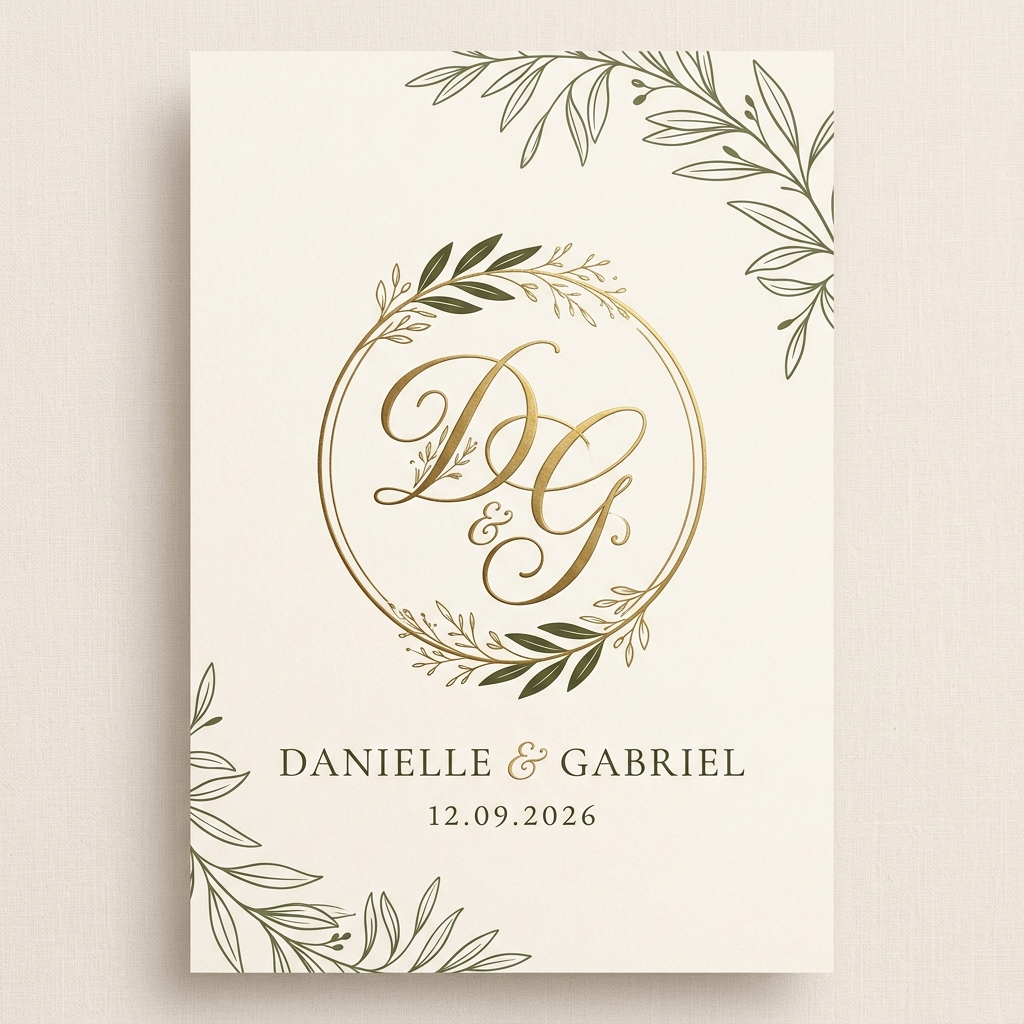
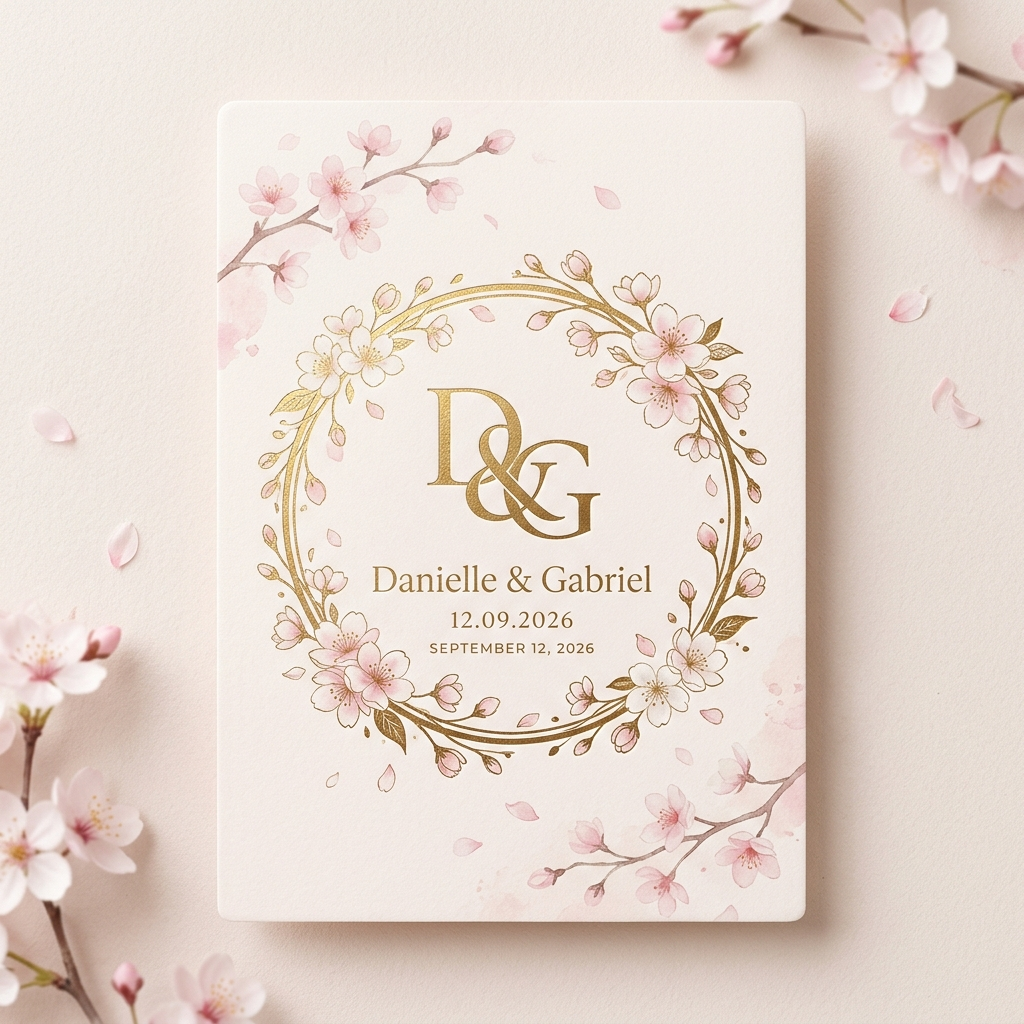
Ajustes no convite: rolagem travada na abertura, envelope pulsante, instrucao estatica e novo botao para lista de presentes

diff --git a/css/style.css b/css/style.css
@@ -1,13 +1,13 @@
 /* Sistema de Design e Variáveis */
 :root {
-    --nude-light: #FBF7F2;
-    --nude-medium: #F5E6D3;
+    --nude-light: #FFF0F2; /* Soft Cherry Blossom Pink/Cream */
+    --nude-medium: #FCD5DB; /* Medium Cherry Blossom Pink */
     --gold-primary: #C5A059;
     --gold-dark: #A67C00;
-    --olive-dark: #556B2F;
+    --olive-dark: #782E3F; /* Elegant Cherry Blossom Burgundy/Wine */
     --white: #FFFFFF;
-    --text-dark: #333333;
-    --text-muted: #777777;
+    --text-dark: #3E272B; /* Dark Cherry Brown */
+    --text-muted: #8A6E73; /* Muted Rose Gray */
     --font-serif: 'Playfair Display', serif;
     --font-sans: 'Montserrat', sans-serif;
     --transition: all 0.4s ease;
@@ -26,6 +26,11 @@ body {
     background-color: var(--white);
     line-height: 1.6;
     overflow-x: hidden;
+}
+
+body.no-scroll {
+    overflow: hidden;
+    height: 100vh;
 }
 
 .serif { font-family: var(--font-serif); }
@@ -173,10 +178,23 @@ section { overflow: hidden; }
     border-radius: 4px;
     cursor: pointer;
     transition: transform 0.3s ease;
+    animation: envelope-pulse 2s infinite ease-in-out;
 }
 
 .envelope:hover {
-    transform: scale(1.02);
+    transform: scale(1.05);
+    animation-play-state: paused;
+}
+
+@keyframes envelope-pulse {
+    0%, 100% {
+        transform: scale(1);
+        box-shadow: 0 15px 35px rgba(0,0,0,0.3);
+    }
+    50% {
+        transform: scale(1.03);
+        box-shadow: 0 20px 45px rgba(0,0,0,0.4);
+    }
 }
 
 .animate-pulse {
@@ -317,6 +335,26 @@ section { overflow: hidden; }
 .opening-content {
     max-width: 500px;
     z-index: 2;
+}
+
+/* Instrução de clique no envelope */
+.click-instruction {
+    color: var(--white);
+    font-size: 1.15rem;
+    font-weight: 700;
+    letter-spacing: 1px;
+    text-transform: uppercase;
+    border: 1.5px solid rgba(255, 255, 255, 0.5);
+    padding: 12px 30px;
+    display: inline-flex;
+    align-items: center;
+    justify-content: center;
+    gap: 10px;
+    border-radius: 30px;
+    background: rgba(255, 255, 255, 0.12);
+    backdrop-filter: blur(5px);
+    margin-top: 25px;
+    box-shadow: 0 4px 15px rgba(0, 0, 0, 0.15);
 }
 
 .quote-text {
@@ -575,6 +613,12 @@ section { overflow: hidden; }
 }
 
 @media screen and (max-width: 576px) {
+    .click-instruction {
+        font-size: 0.95rem;
+        padding: 10px 22px;
+        gap: 8px;
+        margin-top: 20px;
+    }
     .section-title { font-size: 1.8rem; }
     .display-1 { font-size: 2.5rem; }
     .hero-content { padding: 0 15px; }
@@ -608,4 +652,42 @@ section { overflow: hidden; }
 @media screen and (max-height: 500px) and (orientation: landscape) {
     .hero { height: auto; padding: 100px 0; }
     .opening-content { padding: 20px 0; }
+}
+
+/* Animação de Pétalas de Cerejeira Flutuantes */
+.cherry-petals {
+    position: fixed;
+    top: 0;
+    left: 0;
+    width: 100%;
+    height: 100%;
+    pointer-events: none;
+    z-index: 999;
+    overflow: hidden;
+}
+
+.petal {
+    position: absolute;
+    background: linear-gradient(135deg, #FFC0CB 0%, #FFB7C5 100%);
+    border-radius: 150% 0 150% 150%;
+    opacity: 0.85;
+    animation: drift 12s linear infinite;
+    transform-origin: left top;
+}
+
+@keyframes drift {
+    0% {
+        top: -10%;
+        transform: translateX(0) rotate(0deg) scale(1);
+        opacity: 0.85;
+    }
+    50% {
+        transform: translateX(120px) rotate(180deg) scale(0.9);
+        opacity: 0.6;
+    }
+    100% {
+        top: 110%;
+        transform: translateX(-60px) rotate(360deg) scale(0.8);
+        opacity: 0;
+    }
 }

diff --git a/index.html b/index.html
@@ -25,9 +25,9 @@
     <link rel="stylesheet" href="https://cdnjs.cloudflare.com/ajax/libs/font-awesome/6.4.0/css/all.min.css">
     
     <!-- CSS Personalizado -->
-    <link rel="stylesheet" href="css/style.css">
+    <link rel="stylesheet" href="css/style.css?v=2">
 </head>
-<body>
+<body class="no-scroll">
 
     <!-- Pré-carregamento / Boas-vindas -->
     <div id="opening-invitation" class="opening-overlay">
@@ -49,7 +49,7 @@
             <div class="opening-content text-center mt-5">
                 <p class="mb-4 text-white quote-text">"O amor não se alegra com a injustiça, mas se alegra com a verdade. Tudo sofre, tudo crê, tudo espera, tudo suporta."</p>
                 <p class="mb-4 text-white">1 Coríntios 13:6-7</p>
-                <p class="text-white opacity-75 small animate-pulse"><i class="fas fa-envelope-open-text me-2"></i>Clique no envelope para abrir</p>
+                <div class="click-instruction"><i class="fas fa-envelope-open-text me-2"></i>Clique no envelope para abrir</div>
             </div>
         </div>
     </div>
@@ -89,7 +89,10 @@
                     <small>Seg</small>
                 </div>
             </div>
-            <a href="#rsvp" class="btn btn-outline-white px-4 py-2">Confirmar Presença</a>
+            <div class="d-flex flex-column flex-sm-row justify-content-center gap-3">
+                <a href="#rsvp" class="btn btn-outline-white px-4 py-2">Confirmar Presença</a>
+                <a href="#presentes" class="btn btn-outline-white px-4 py-2">Lista de Presentes</a>
+            </div>
         </div>
     </header>
 
@@ -214,7 +217,7 @@
     </section>
 
     <!-- Lista de Presentes -->
-    <section class="section-padding">
+    <section class="section-padding" id="presentes">
         <div class="container text-center animate-on-scroll">
             <h2 class="serif mb-4">Lista de Presentes</h2>
             <p class="mb-5">Sua presença é o nosso maior presente, mas se desejar nos presentear, confira nossa lista virtual.</p>
@@ -280,6 +283,6 @@
     <!-- Bootstrap 5 JS -->
     <script src="https://cdn.jsdelivr.net/npm/bootstrap@5.3.0/dist/js/bootstrap.bundle.min.js"></script>
     <!-- JS Personalizado -->
-    <script src="js/script.js"></script>
+    <script src="js/script.js?v=1"></script>
 </body>
 </html>

diff --git a/js/script.js b/js/script.js
@@ -6,6 +6,11 @@ document.addEventListener('DOMContentLoaded', () => {
     const bgMusic = document.getElementById('bg-music');
     const btnMusic = document.getElementById('btn-music');
 
+    // Evita rolagem da página de fundo ao interagir com o overlay no mobile
+    openingOverlay.addEventListener('touchmove', (e) => {
+        e.preventDefault();
+    }, { passive: false });
+
     envelope.addEventListener('click', () => {
         envelope.classList.add('open');
 
@@ -16,9 +21,10 @@ document.addEventListener('DOMContentLoaded', () => {
         // Espera a animação do envelope terminar antes de remover o overlay
         setTimeout(() => {
             openingOverlay.classList.add('closed');
-            // Remove o overlay do DOM após a animação de deslize
+            // Remove o overlay do DOM após a animação de deslize e destrava o scroll
             setTimeout(() => {
                 openingOverlay.style.display = 'none';
+                document.body.classList.remove('no-scroll');
             }, 1000);
         }, 1500);
     });
